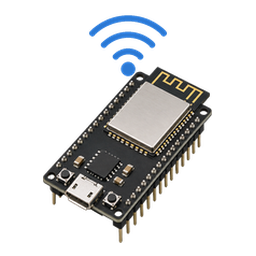
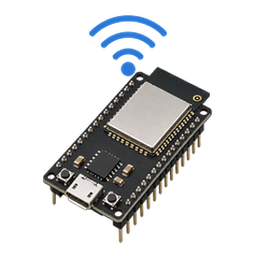
Show the room board as an ESP32U
The rooms use an ESP32U, the ESP32 board with a U.FL connector for an
external antenna. esp32.png drew a board with the meander PCB antenna,
so the antenna tab is now plain PCB with the U.FL connector at its end;
wifi-ap.png carries the same board and changes with it, as the README
asks.

The figure cards that name the board now say ESP32U, and the README's
hardware list and module notes describe it the same way. The PlatformIO
board stays esp32dev, which covers the ESP32U, and the composed PNGs are
rendered again from the HTML.

Changed region(s): [[0.5938, 0.2812, 0.8125, 0.4062]]

diff --git a/docs/readme-assets/src/architecture-overview.html b/docs/readme-assets/src/architecture-overview.html
@@ -66,12 +66,12 @@
     </div>
 
     <div class="coluna" id="salas">
-      <div class="cabecalho">Salas · um ESP32 por sala</div>
+      <div class="cabecalho">Salas · um ESP32U por sala</div>
       <div class="subcabecalho">Wi-Fi direto · padrão</div>
       <div class="linha-sala">
         <div class="cartao tom-petroleo" id="esp-direto">
           <img class="modulo p" src="../modules/esp32.png" alt="">
-          <div><div class="titulo">ESP32</div><div class="sub papel">direto</div></div>
+          <div><div class="titulo">ESP32U</div><div class="sub papel">direto</div></div>
         </div>
         <div class="ac" id="ac1"><img src="../modules/air-conditioner.png" alt=""></div>
       </div>
@@ -80,14 +80,14 @@
         <div class="linha-sala">
           <div class="cartao tom-petroleo" id="gateway">
             <img class="modulo p raiz" src="../modules/wifi-ap.png" alt="">
-            <div><div class="titulo">ESP32</div><div class="sub papel">gateway</div></div>
+            <div><div class="titulo">ESP32U</div><div class="sub papel">gateway</div></div>
           </div>
           <div class="ac" id="ac2"><img src="../modules/air-conditioner.png" alt=""></div>
         </div>
         <div class="linha-sala">
           <div class="cartao tom-petroleo" id="no">
             <img class="modulo p" src="../modules/esp32.png" alt="">
-            <div><div class="titulo">ESP32</div><div class="sub papel">nó mesh</div></div>
+            <div><div class="titulo">ESP32U</div><div class="sub papel">nó mesh</div></div>
           </div>
           <div class="ac" id="ac3"><img src="../modules/air-conditioner.png" alt=""></div>
         </div>

diff --git a/docs/readme-assets/src/device-networking.html b/docs/readme-assets/src/device-networking.html
@@ -77,15 +77,15 @@
         <div class="placas">
           <div class="cartao tom-petroleo placa" id="d1">
             <span class="quadro"><img class="modulo p" src="../modules/esp32.png" alt=""><svg class="ic"><use href="#i-chave"/></svg></span>
-            <div><div class="titulo">ESP32</div><div class="sub">sala A</div></div>
+            <div><div class="titulo">ESP32U</div><div class="sub">sala A</div></div>
           </div>
           <div class="cartao tom-petroleo placa" id="d2">
             <span class="quadro"><img class="modulo p" src="../modules/esp32.png" alt=""><svg class="ic"><use href="#i-chave"/></svg></span>
-            <div><div class="titulo">ESP32</div><div class="sub">sala B</div></div>
+            <div><div class="titulo">ESP32U</div><div class="sub">sala B</div></div>
           </div>
           <div class="cartao tom-petroleo placa" id="d3">
             <span class="quadro"><img class="modulo p" src="../modules/esp32.png" alt=""><svg class="ic"><use href="#i-chave"/></svg></span>
-            <div><div class="titulo">ESP32</div><div class="sub">sala C</div></div>
+            <div><div class="titulo">ESP32U</div><div class="sub">sala C</div></div>
           </div>
         </div>
         <div class="legenda-painel">

diff --git a/docs/readme-assets/src/ir-cloning.html b/docs/readme-assets/src/ir-cloning.html
@@ -50,7 +50,7 @@
     </div>
     <div class="cartao tom-ambar placa" id="clonadora">
       <span class="pecas"><img class="modulo" src="../modules/esp32.png" alt=""><img class="modulo p" src="../modules/ir-receiver.png" alt=""></span>
-      <div><div class="titulo">ESP32 clonadora</div><div class="sub">a única com receptor IR; no modo clone, captura sem parar e ignora o que o IRac não transmite</div></div>
+      <div><div class="titulo">ESP32U clonadora</div><div class="sub">a única com receptor IR; no modo clone, captura sem parar e ignora o que o IRac não transmite</div></div>
     </div>
 
     <div class="cartao tom-verde" id="biblioteca">
@@ -72,7 +72,7 @@
     </div>
     <div class="cartao tom-petroleo placa" id="sala">
       <span class="pecas"><img class="modulo" src="../modules/esp32.png" alt=""><img class="modulo p" src="../modules/ir-led.png" alt=""></span>
-      <div><div class="titulo">ESP32 da sala</div><div class="sub">transmite pelo protocolo aplicado; guarda o failsafe OFF na NVS</div></div>
+      <div><div class="titulo">ESP32U da sala</div><div class="sub">transmite pelo protocolo aplicado; guarda o failsafe OFF na NVS</div></div>
     </div>
   </div>
 

diff --git a/docs/readme-assets/src/credential-rotation.html b/docs/readme-assets/src/credential-rotation.html
@@ -59,7 +59,7 @@
     <div class="raia esp tom-petroleo"></div>
 
     <div class="cabeca tom-verde c1"><img class="modulo" src="../modules/server.png" alt=""><div class="titulo">Servidor</div></div>
-    <div class="cabeca tom-petroleo c3"><img class="modulo" src="../modules/esp32.png" alt=""><div class="titulo">ESP32 e sua NVS</div></div>
+    <div class="cabeca tom-petroleo c3"><img class="modulo" src="../modules/esp32.png" alt=""><div class="titulo">ESP32U e sua NVS</div></div>
 
     <div class="cartao tom-verde passo c1" id="s1">
       <div class="titulo"><span class="n">1</span>Rotacionar</div>

diff --git a/docs/readme-assets/src/esp32-ota.html b/docs/readme-assets/src/esp32-ota.html
@@ -49,7 +49,7 @@
 <body>
 <div id="tela">
   <div class="cab">
-    <div><img class="modulo" src="../modules/esp32.png" alt="">ESP32 · slots</div>
+    <div><img class="modulo" src="../modules/esp32.png" alt="">ESP32U · slots</div>
     <div>O que acontece</div>
     <div><img class="modulo" src="../modules/server.png" alt="">Fase no servidor</div>
   </div>

diff --git a/docs/readme-assets/src/esp32-hardware.html b/docs/readme-assets/src/esp32-hardware.html
@@ -59,7 +59,7 @@
 
     <div class="cartao" id="placa">
       <img class="modulo" src="../modules/esp32.png" alt="">
-      <div class="titulo">ESP32 (esp32dev)</div>
+      <div class="titulo">ESP32U (esp32dev)</div>
       <div class="sub">o mesmo firmware em todas as placas</div>
     </div>
 

diff --git a/README.md b/README.md
@@ -506,7 +506,7 @@ A divisão entre os dois documentos é deliberada: este README é a referência 
 ### Hardware
 
 - Um servidor para rodar `remoteifes-server`, acessível pela rede do IFES e pelos ESP32 — de uma VM a um **Raspberry Pi** (3, 4, 5 ou Zero 2 W; o Node.js exige Raspberry Pi OS de 64 bits a partir do Buster ou de 32 bits a partir do Bullseye, e a placa pode exigir um mais novo, como o Bookworm no Pi 5); veja [Hospedagem em Raspberry Pi](#hospedagem-em-raspberry-pi)
-- Um ESP32 com emissor infravermelho (GPIO 4) por sala (ou por par de salas adjacentes, quando um único equipamento cobre as duas), um switch momentâneo no GPIO 26, um buzzer ativo no GPIO 27, um LED de conexão no GPIO 25 e um sensor de temperatura e umidade, um por placa: o DHT11 no GPIO 14 ou um AHT10 por I2C (SDA no GPIO 21, SCL no GPIO 22). O mesmo firmware atende os dois: na inicialização procura o AHT10 no endereço I2C 0x38 e, sem resposta, lê o DHT11
+- Um ESP32U (placa ESP32 com conector U.FL para antena externa) com emissor infravermelho (GPIO 4) por sala (ou por par de salas adjacentes, quando um único equipamento cobre as duas), um switch momentâneo no GPIO 26, um buzzer ativo no GPIO 27, um LED de conexão no GPIO 25 e um sensor de temperatura e umidade, um por placa: o DHT11 no GPIO 14 ou um AHT10 por I2C (SDA no GPIO 21, SCL no GPIO 22). O mesmo firmware atende os dois: na inicialização procura o AHT10 no endereço I2C 0x38 e, sem resposta, lê o DHT11
 - Uma única placa adicional (ou uma das placas de sala) com **receptor infravermelho no GPIO 15**, definida como clonador oficial em `Administração > Dispositivos > Protocolos IR`
 
 ## Referência técnica: inicialização manual e produção
@@ -1668,7 +1668,7 @@ O script gera `-light.png` e `-dark.png` a 2× a largura exibida (800 px), escol
 
 **Módulos.** `docs/readme-assets/modules/*.png` são ilustrações de 256 px com fundo transparente, cada uma com um único objeto:
 
-- hardware real, desenhado de forma realista e simplificada: `server.png` é um Raspberry Pi e `esp32.png` uma placa de desenvolvimento ESP32;
+- hardware real, desenhado de forma realista e simplificada: `server.png` é um Raspberry Pi e `esp32.png` uma placa de desenvolvimento ESP32U, com o conector U.FL da antena externa no lugar da antena de PCB;
 - `wifi-ap.png` é o mesmo `esp32.png`, menor, com o símbolo de Wi-Fi (três arcos e um ponto, `#2a78d4`) acima da placa, fora dela. Representa o ESP32 como raiz da malha, no cartão do gateway; ao trocar `esp32.png`, refaça os dois juntos;
 - peças da placa: `ir-led.png` (LED infravermelho de 5 mm), `ir-receiver.png` (receptor IR de três terminais), `push-button.png` (botão tátil), `buzzer.png`, `dht11.png`, `aht10.png` (placa do AHT10 com conector de quatro pinos) e `remote-control.png` (controle remoto do aparelho). Ilustram o tipo de peça, não um modelo ou fabricante: o firmware procura primeiro o AHT10 no I2C (endereço 0x38, SDA no GPIO 21, SCL no GPIO 22) e, sem resposta, lê o DHT11 (`DHTTYPE`) no GPIO 14;
 - conceitos, no estilo de ícone de produto: navegador, celular, banco, console e ar-condicionado.
